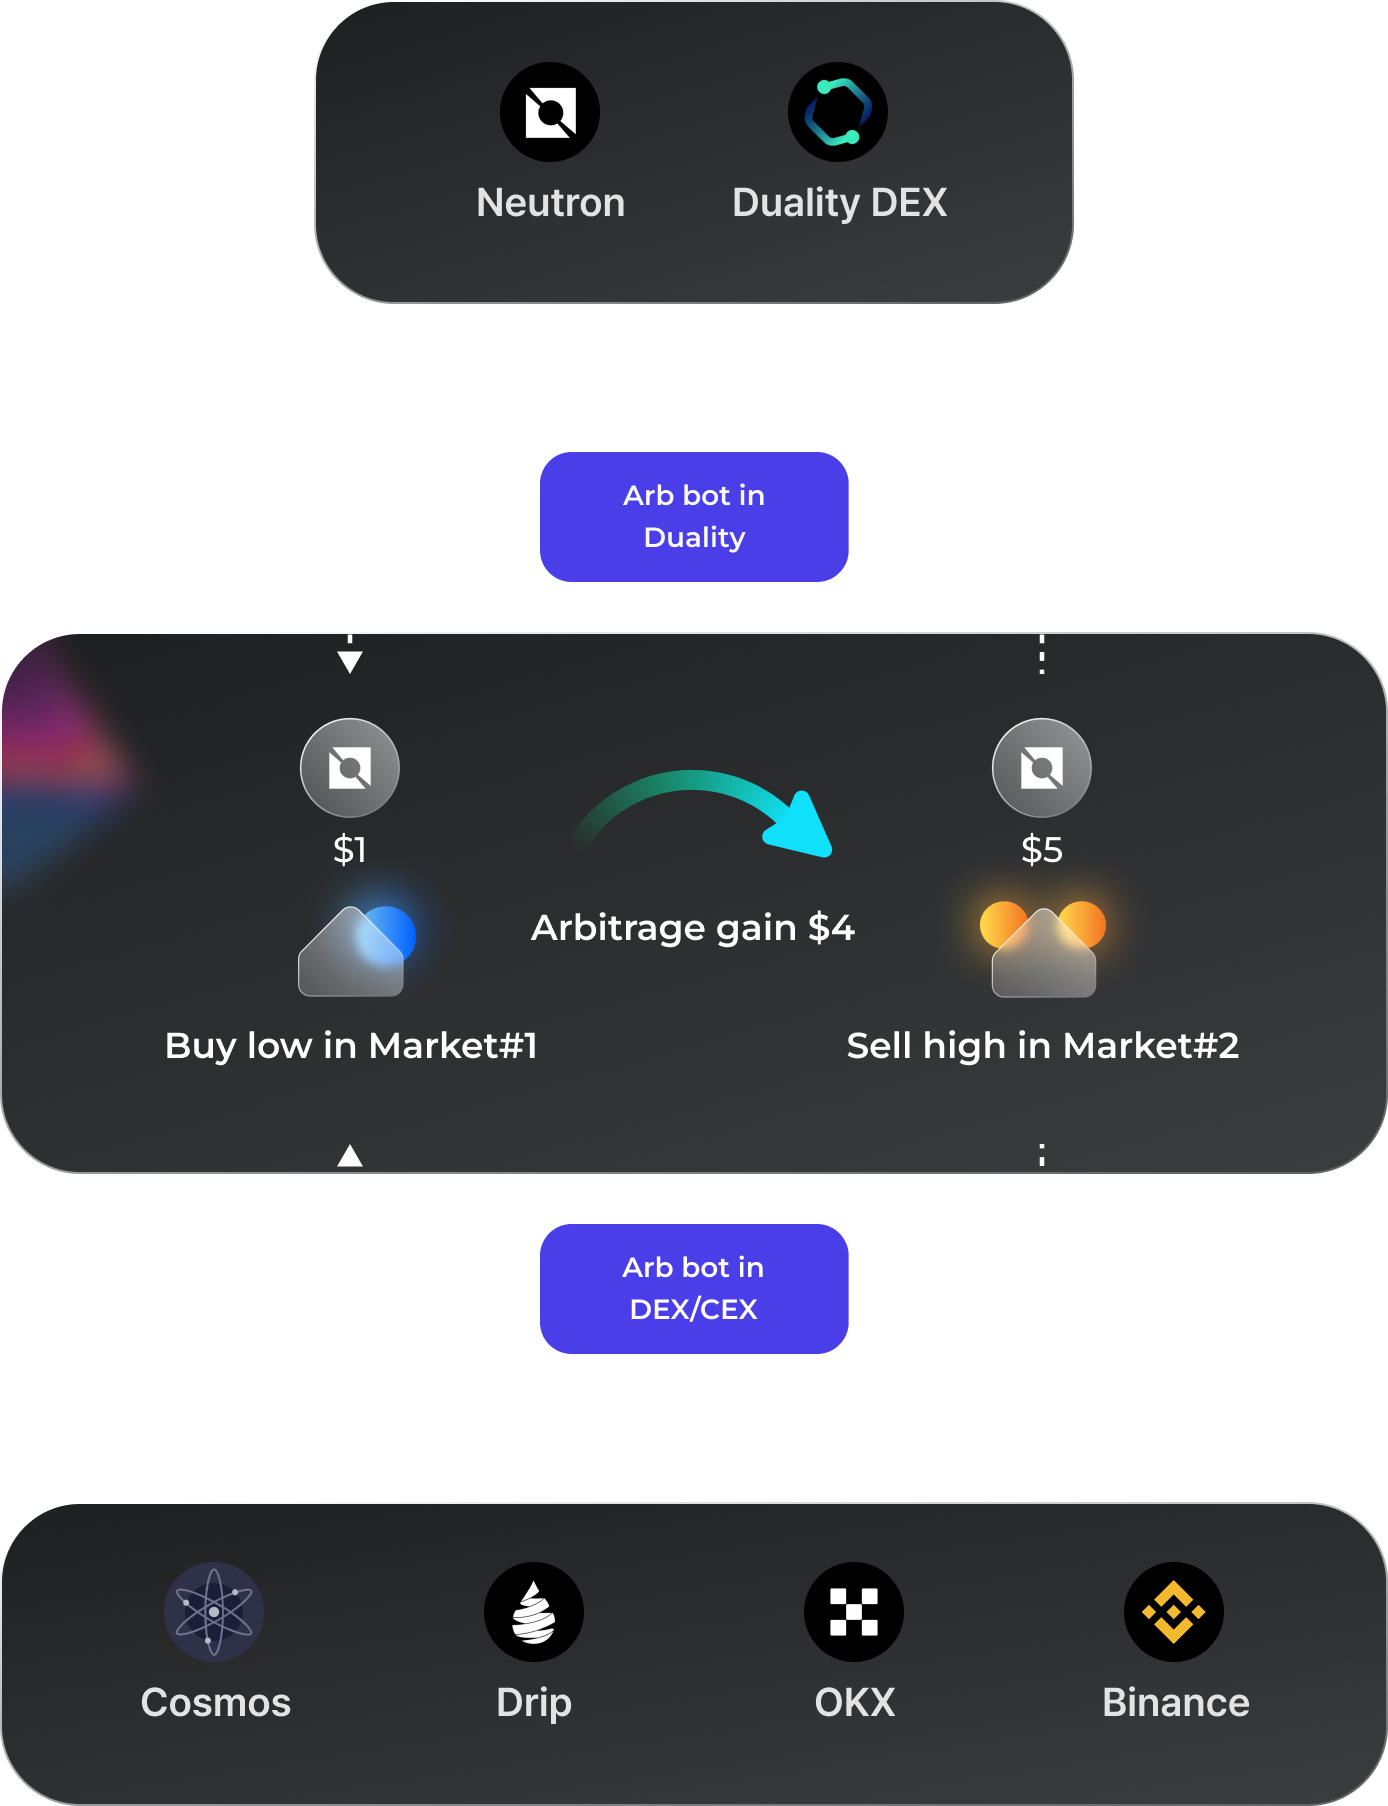
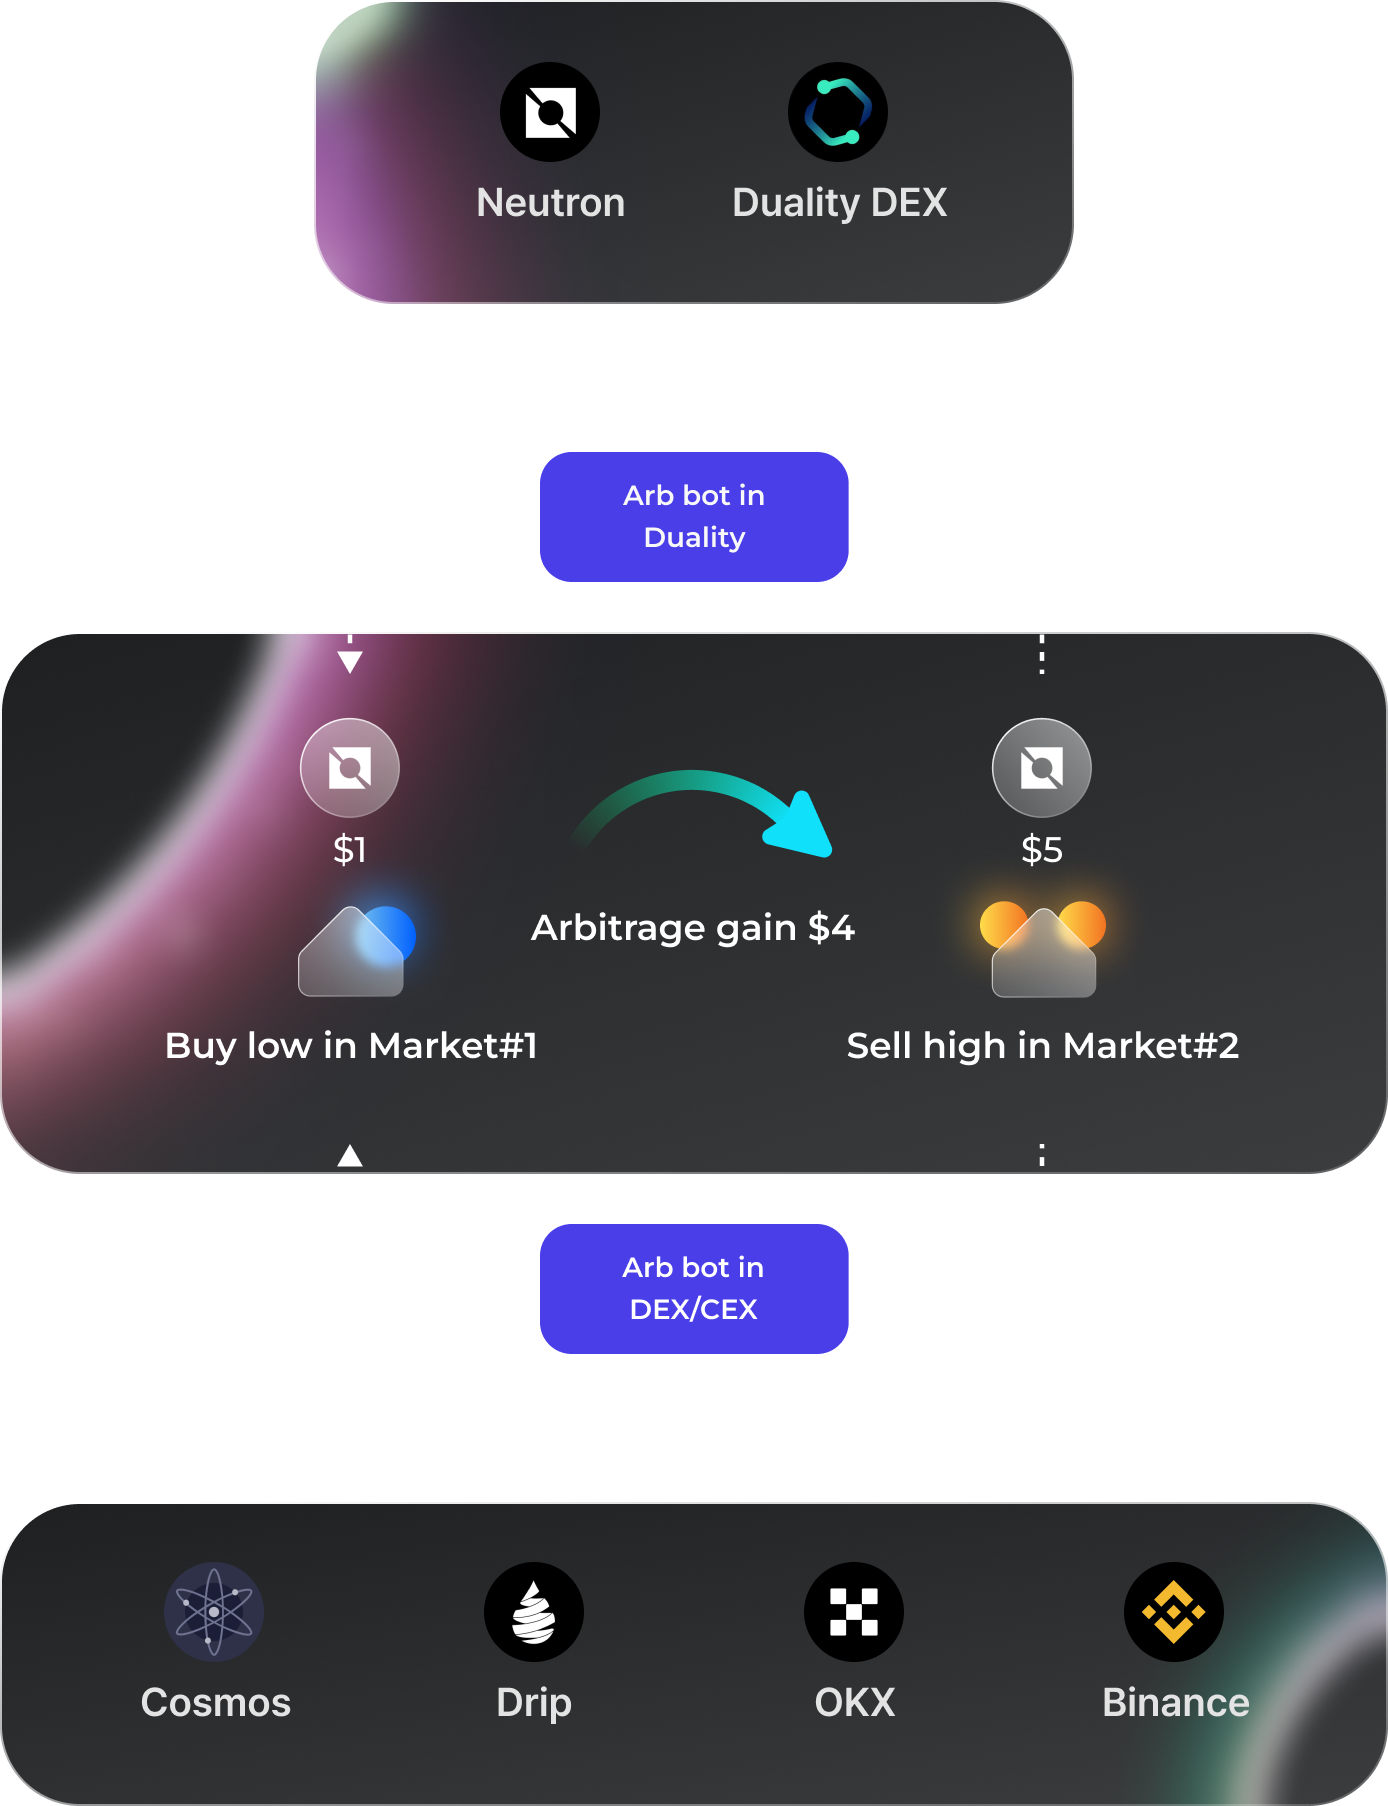
refac: onboarding imgs

Changed region(s): [[0.0, 0.3411, 0.3718, 0.6512], [0.2169, 0.0, 0.3718, 0.186], [0.8365, 0.8372, 1.0, 1.0]]

diff --git a/src/onboarding/index.tsx b/src/onboarding/index.tsx
@@ -1,6 +1,11 @@
 import Header from '../common/components/Header';
 import * as St from './style_onboarding.tsx';
-import { ProtonLogo, onBoardingCube } from '../common/assets/0_index';
+import {
+  ProtonLogo,
+  onBoardingBackImg1,
+  onBoardingBackImg2,
+  onBoardingBackImg3,
+} from '../common/assets/0_index';
 import {
   IcGitbub,
   IcMedium,
@@ -84,8 +89,7 @@ const OnBoarding1 = () => {
   }, []);
   return (
     <St.Section1.Container>
-      <St.Section1.BackgroundImg1 src={onBoardingCube} alt='cubeIMG' />
-      <St.Section1.BackgroundImg2 src={onBoardingCube} alt='cubeIMG' />
+      <St.Section1.BackgroundImg1 src={onBoardingBackImg1} alt='cubeIMG' />
       <St.Section1.ContentLayout>
         <St.Section1.QVEIntroduce>
           <h1>Quant Vault Escrow Protocol</h1>
@@ -117,7 +121,7 @@ const OnBoarding1 = () => {
 const OnBoarding2 = () => {
   return (
     <St.Section2.Container>
-      <p>About QVE</p>
+      <p>About Proton</p>
       <St.Title>Optimizing Yields in the Neutron Ecosystem</St.Title>
       <St.Section2.Contents>
         {ABOUTQVE.map((item) => {
@@ -144,7 +148,14 @@ const OnBoarding2 = () => {
 const OnBoarding3 = () => {
   return (
     <St.Section3.Container>
-      <St.Section3.BackgroundImg src={onBoardingCube} alt='background-img' />
+      <St.Section3.BackgroundImg
+        src={onBoardingBackImg2}
+        alt='background-img'
+      />
+      <St.Section3.BackgroundImg2
+        src={onBoardingBackImg3}
+        alt='background-img'
+      />
       <St.Section3.InTro>
         <St.PreTitle>
           QVE offers various ‘vaults’, which are operated by the trading bots

diff --git a/src/onboarding/style_onboarding.tsx b/src/onboarding/style_onboarding.tsx
@@ -98,12 +98,13 @@ export const Section1 = {
     }
   `,
   BackgroundImg1: styled.img`
-    width: 40%;
+    width: 127rem;
     position: absolute;
-    top: -2%;
-    right: 20%;
-    opacity: 0.4;
-    transform: rotate(330deg);
+    top: -10rem;
+    right: -50rem;
+    z-index: -1;
+    /* opacity: 0.4; */
+    /* transform: rotate(330deg); */
   `,
   BackgroundImg2: styled.img`
     width: 100%;
@@ -196,11 +197,19 @@ export const Section3 = {
     color: ${({ theme }) => theme.colors.not_important};
   `,
   BackgroundImg: styled.img`
-    width: 160rem;
+    width: 127rem;
     position: absolute;
-    top: 10rem;
-    left: -150%;
-    transform: rotate(260deg);
+    top: -30rem;
+    left: -110%;
+    transform: rotate(15deg);
+    z-index: -1;
+  `,
+  BackgroundImg2: styled.img`
+    width: 57rem;
+    position: absolute;
+    bottom: -30rem;
+    right: -41rem;
+    transform: rotate(11deg);
     z-index: -1;
   `,
 

diff --git a/src/onboarding/assets/0_index.ts b/src/onboarding/assets/0_index.ts
@@ -9,9 +9,6 @@ import IcRisk from './section2_risk.svg?react';
 import IcSafety from './section2_safety.svg?react';
 
 import onboarding3 from './onboarding_mock3.webp';
-import onboarding4 from './onboarding_mock4.webp';
-import onboarding4_1 from './onboarding_mock4_1.webp';
-import onboarding4_2 from './onboarding_mock4_2.webp';
 
 import imgDepositFunds from './depositFundsIMG.webp';
 import imgGenerateProfits from './generateProfitsIMG.webp';
@@ -28,9 +25,6 @@ export {
   IcRisk,
   IcSafety,
   onboarding3,
-  onboarding4,
-  onboarding4_1,
-  onboarding4_2,
   imgDepositFunds,
   imgGenerateProfits,
   imgLiquifyPosition,

diff --git a/src/common/assets/0_index.ts b/src/common/assets/0_index.ts
@@ -7,6 +7,9 @@ import IcFooterMedium from './icMedium.svg?react';
 import IcFooterGithub from './icGithub.svg?react';
 import IcStrokeLogo from './qveStrokeLogo.svg?react';
 import IcSuccess from './icSuccess.svg?react';
+import onBoardingBackImg1 from './onboardingBackImg1.webp';
+import onBoardingBackImg2 from './onboardingBackImg2.webp';
+import onBoardingBackImg3 from './onboardingBackImg3.webp';
 
 export {
   ProtonLogo,
@@ -18,4 +21,7 @@ export {
   IcFooterTwitter,
   IcStrokeLogo,
   IcSuccess,
+  onBoardingBackImg1,
+  onBoardingBackImg2,
+  onBoardingBackImg3,
 };

diff --git a/src/mainPage/index.tsx b/src/mainPage/index.tsx
@@ -95,7 +95,7 @@ const Announcement = () => {
         <St.Announcement.Text>
           Unlock the Full Potential of Your
         </St.Announcement.Text>
-        <St.Announcement.Text>Investments with QVE!</St.Announcement.Text>
+        <St.Announcement.Text>Investments with Proton!</St.Announcement.Text>
         <St.Announcement.Background
           src={announceIMG}
         ></St.Announcement.Background>
